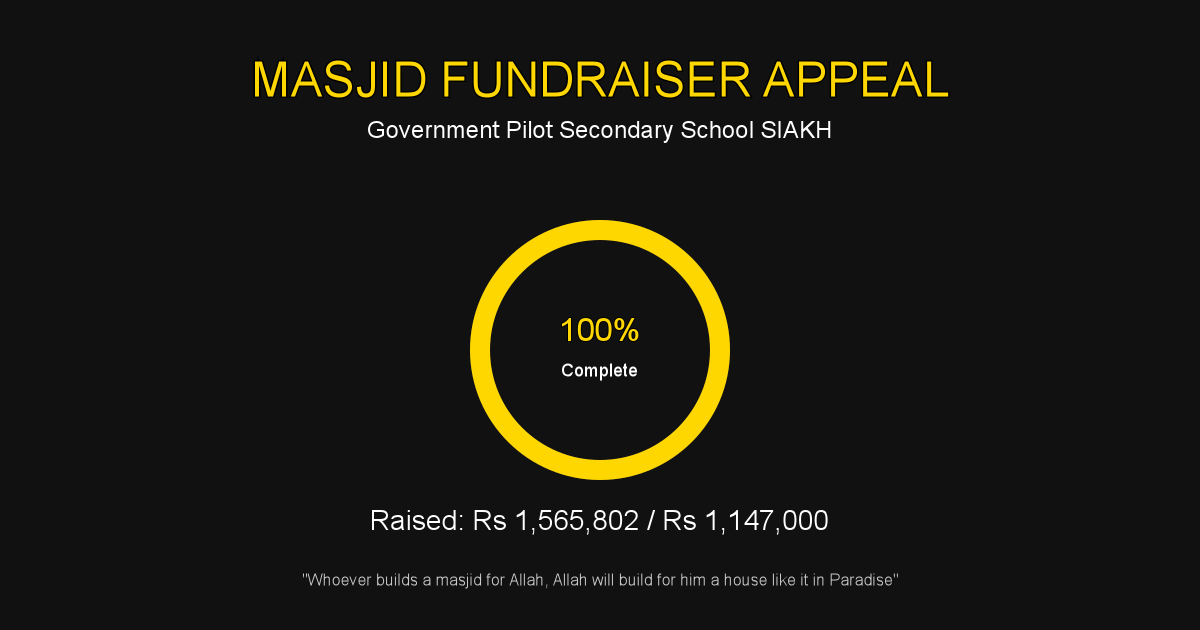
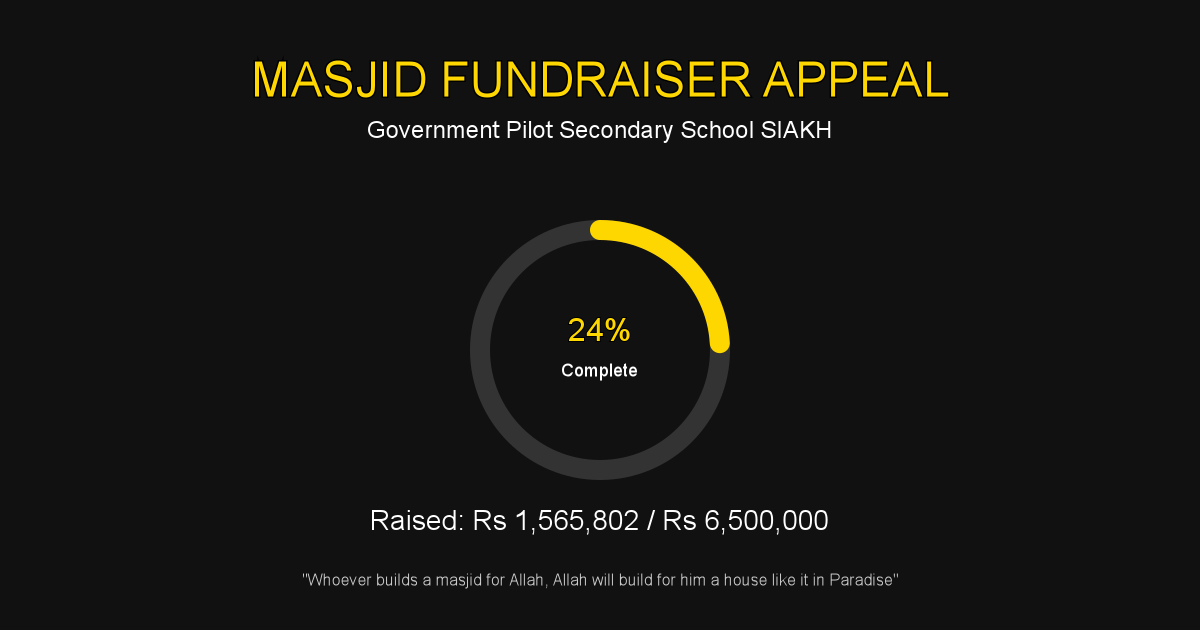
png image fix

Changed region(s): [[0.37, 0.3317, 0.6167, 0.7841], [0.4625, 0.4825, 0.555, 0.5429], [0.5858, 0.8143, 0.6475, 0.8444]]

diff --git a/update-og-png.js b/update-og-png.js
@@ -7,7 +7,7 @@ const expenses = JSON.parse(fs.readFileSync('expenses.json', 'utf8'));
 
 // Calculate totals
 const totalRaised = contributions.reduce((sum, c) => sum + c.amount, 0);
-const totalTarget = expenses.reduce((sum, e) => sum + e.price, 0);
+const totalTarget = 6500000;//expenses.reduce((sum, e) => sum + e.price, 0);
 const percentage = Math.min(100, (totalRaised / totalTarget) * 100);
 
 // Format amounts for display
